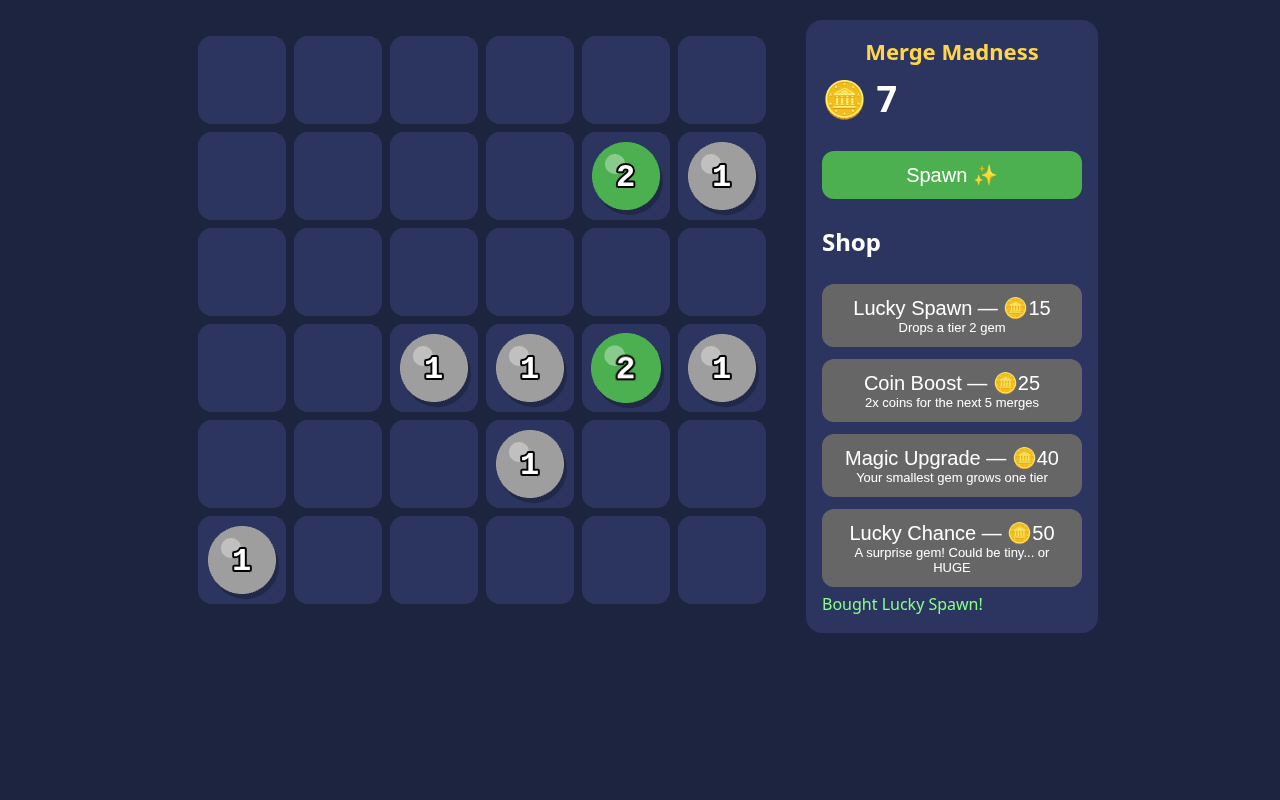
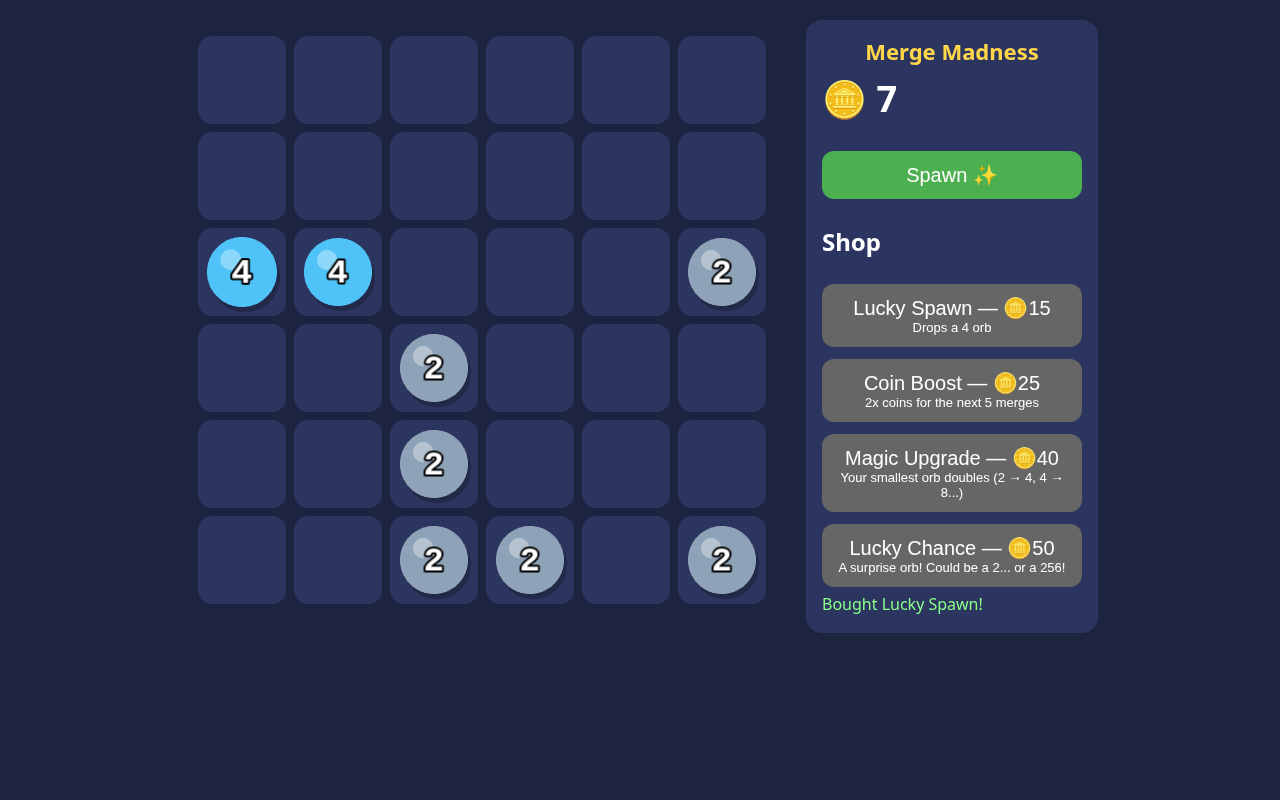
2048-style numbers, 14 tiers to 16384, new Lucky Chance weights, YOU WIN confetti

diff --git a/tests/core.test.ts b/tests/core.test.ts
@@ -18,7 +18,7 @@ describe('core rules', () => {
     const s = newGame(); s.cells[0] = 1;
     expect(moveItem(s, 0, 5).kind).toBe('move'); expect(s.cells[5]).toBe(1);
     s.cells[6] = 2; expect(moveItem(s, 5, 6).kind).toBe('swap'); expect(s.cells[5]).toBe(2); expect(s.cells[6]).toBe(1);
-    s.cells[7] = 8; s.cells[8] = 8; expect(moveItem(s, 7, 8).kind).toBe('swap');
+    s.cells[7] = 14; s.cells[8] = 14; expect(moveItem(s, 7, 8).kind).toBe('swap');
   });
   it('shop: costs coins, rejects when poor, coin boost doubles', () => {
     const s = newGame(); s.coins = SHOP.coinBoost.price;
@@ -34,36 +34,65 @@ describe('core rules', () => {
   });
 });
 
-import { weightedPick } from '../src/core/game';
-import { LUCKY_CHANCE_WEIGHTS } from '../src/config';
+import { weightedPick, checkWin } from '../src/core/game';
+import { LUCKY_CHANCE_WEIGHTS, MAX_TIER, WIN_TIER, tierValue, TIER_COLORS } from '../src/config';
+describe('2048 numbers', () => {
+  it('tier n shows 2^n up to 16384', () => {
+    expect(MAX_TIER).toBe(14); expect(WIN_TIER).toBe(14);
+    expect([1, 2, 3, 8, 13, 14].map(tierValue)).toEqual([2, 4, 8, 256, 8192, 16384]);
+  });
+  it('every tier has a unique color and growing coins', () => {
+    const cols = Object.values(TIER_COLORS); expect(cols.length).toBe(14); expect(new Set(cols).size).toBe(14);
+    for (let t = 2; t <= 14; t++) expect(TIER_COIN_VALUES[t]).toBeGreaterThan(TIER_COIN_VALUES[t - 1]);
+  });
+  it('8 + 8 merges into 16 (tier 8 -> 9 now allowed); 8192+8192 -> 16384', () => {
+    const s = newGame(); s.cells[0] = 8; s.cells[1] = 8; expect(moveItem(s, 0, 1).kind).toBe('merge'); expect(s.cells[1]).toBe(9);
+    s.cells[2] = 13; s.cells[3] = 13; expect(moveItem(s, 2, 3)).toMatchObject({ kind: 'merge', tier: 14 });
+  });
+  it('win triggers once per save, persists', () => {
+    const m = new Map<string, string>(); const st = { getItem: (k: string) => m.get(k) ?? null, setItem: (k: string, v: string) => void m.set(k, v) };
+    const s = newGame(); expect(checkWin(s)).toBe(false);
+    s.cells[0] = 13; s.cells[1] = 13; moveItem(s, 0, 1);
+    expect(checkWin(s)).toBe(true); expect(checkWin(s)).toBe(false);
+    save(s, st); const l = load(st); expect(l.won).toBe(true); expect(checkWin(l)).toBe(false);
+  });
+  it('win via Magic Upgrade too', () => {
+    const s = newGame(); s.coins = 100; s.cells[0] = 13; expect(buy(s, 'magicUpgrade').ok).toBe(true);
+    expect(s.cells[0]).toBe(14); expect(checkWin(s)).toBe(true);
+  });
+  it('old 8-tier save loads with same tiers, won=false', () => {
+    const c = Array(36).fill(null); c[0] = 8; c[1] = 3;
+    const st = { getItem: () => JSON.stringify({ cols: 6, rows: 6, cells: c, coins: 77, boostMerges: 2 }), setItem: () => {} };
+    const l = load(st); expect(l.cells[0]).toBe(8); expect(l.cells[1]).toBe(3); expect(l.coins).toBe(77); expect(l.boostMerges).toBe(2); expect(l.won).toBe(false);
+  });
+});
 describe('Lucky Chance', () => {
-  const W = { 1: 80, 2: 50, 3: 40, 4: 30, 5: 20, 6: 10, 7: 5, 8: 1 }; // total 236
-  const at = (x: number) => () => x / 236;
+  const W = { 1: 50, 2: 40, 3: 30, 4: 25, 5: 20, 6: 10, 7: 1, 8: 0.1 }; // total 176.1
+  const at = (x: number) => () => x / 176.1;
   it('config matches Miles numbers', () => { expect(LUCKY_CHANCE_WEIGHTS).toEqual(W); expect(SHOP.luckyChance.price).toBe(50); });
-  it('weighted pick respects boundaries', () => {
+  it('weighted pick respects boundaries (incl. decimal 0.1)', () => {
     expect(weightedPick(W, at(0))).toBe(1);
-    expect(weightedPick(W, at(79.999))).toBe(1);
-    expect(weightedPick(W, at(80))).toBe(2);
-    expect(weightedPick(W, at(129.999))).toBe(2);
-    expect(weightedPick(W, at(130))).toBe(3);
-    expect(weightedPick(W, at(170))).toBe(4);
-    expect(weightedPick(W, at(200))).toBe(5);
-    expect(weightedPick(W, at(220))).toBe(6);
-    expect(weightedPick(W, at(230))).toBe(7);
-    expect(weightedPick(W, at(234.999))).toBe(7);
-    expect(weightedPick(W, at(235))).toBe(8);
+    expect(weightedPick(W, at(49.999))).toBe(1);
+    expect(weightedPick(W, at(50))).toBe(2);
+    expect(weightedPick(W, at(90))).toBe(3);
+    expect(weightedPick(W, at(125))).toBe(4);
+    expect(weightedPick(W, at(145))).toBe(5);
+    expect(weightedPick(W, at(165))).toBe(6);
+    expect(weightedPick(W, at(175))).toBe(7);
+    expect(weightedPick(W, at(175.99))).toBe(7);
+    expect(weightedPick(W, at(176.01))).toBe(8);
     expect(weightedPick(W, () => 0.999999)).toBe(8);
   });
   it('frequencies roughly follow weights', () => {
     let seed = 1; const rng = () => ((seed = (seed * 16807) % 2147483647) / 2147483647);
-    const n = 236000, counts: Record<number, number> = {};
+    const n = 1761000, counts: Record<number, number> = {};
     for (let i = 0; i < n; i++) { const t = weightedPick(W, rng); counts[t] = (counts[t] ?? 0) + 1; }
-    for (const [t, w] of Object.entries(W)) expect(Math.abs(counts[+t] / 1000 - w)).toBeLessThan(Math.max(3, w * 0.1));
+    for (const [t, w] of Object.entries(W)) expect(Math.abs(counts[+t] / 10000 - w)).toBeLessThan(Math.max(0.05, w * 0.05));
   });
   it('zero weight never picked', () => { expect(weightedPick({ 1: 0, 2: 1 }, () => 0)).toBe(2); });
   it('buy deducts 50 and places the picked tier', () => {
     const s = newGame(); s.coins = 60;
-    const r = buy(s, 'luckyChance', at(170));
+    const r = buy(s, 'luckyChance', at(125));
     expect(r.ok).toBe(true); expect(r.tier).toBe(4); expect(s.coins).toBe(10);
     expect(s.cells[r.cell!]).toBe(4); expect(s.cells.filter(c => c !== null).length).toBe(1);
   });

diff --git a/src/config.ts b/src/config.ts
@@ -6,19 +6,27 @@
 export const BOARD_COLS = 6;
 export const BOARD_ROWS = 6;
 
-// How many tiers (levels) a gem can grow to. Tier 8 is the biggest!
-export const MAX_TIER = 8;
+// How many tiers (levels) an orb can grow to. Tier 14 is the biggest!
+// Each orb shows a 2048-style number: tier 1 = 2, tier 2 = 4, tier 3 = 8 ... tier 14 = 16,384.
+export const MAX_TIER = 14;
+
+// Make an orb of this tier and YOU WIN! (14 = the 16,384 orb). Confetti time!
+export const WIN_TIER = 14;
+
+// The number shown on an orb of this tier (2, 4, 8, 16 ...).
+export const tierValue = (tier: number) => 2 ** tier;
 
 // Coins you get when you MAKE a gem of this tier by merging.
-// Example: merge two tier-1 gems -> you make a tier 2 -> you get 2 coins.
+// Example: merge two 2 orbs -> you make a 4 orb (tier 2) -> you get 2 coins.
 export const TIER_COIN_VALUES: Record<number, number> = {
   1: 0, 2: 2, 3: 5, 4: 12, 5: 30, 6: 75, 7: 180, 8: 500,
+  9: 1200, 10: 3000, 11: 7500, 12: 18000, 13: 45000, 14: 100000,
 };
 
-// Colors for each tier (hex numbers like 0xRRGGBB).
+// Colors for each tier (hex numbers like 0xRRGGBB). Warm 2048-style rainbow!
 export const TIER_COLORS: Record<number, number> = {
-  1: 0x9e9e9e, 2: 0x4caf50, 3: 0x2196f3, 4: 0x9c27b0,
-  5: 0xff9800, 6: 0xf44336, 7: 0x00bcd4, 8: 0xffd700,
+  1: 0x8fa3b8, 2: 0x4fc3f7, 3: 0x26c6da, 4: 0x66bb6a, 5: 0x9ccc65, 6: 0xffca28, 7: 0xffa726,
+  8: 0xff7043, 9: 0xef5350, 10: 0xec407a, 11: 0xab47bc, 12: 0x7e57c2, 13: 0x5c6bc0, 14: 0xffd700,
 };
 
 // Coins you start the game with.
@@ -33,16 +41,19 @@ export const SPAWN_TIER2_CHANCE = 0;
 
 // ----- Shop prices and effects -----
 export const SHOP = {
-  luckySpawn: { name: 'Lucky Spawn', price: 15, description: 'Drops a tier 2 gem' },
+  luckySpawn: { name: 'Lucky Spawn', price: 15, description: 'Drops a 4 orb' },
   coinBoost: { name: 'Coin Boost', price: 25, description: '2x coins for the next 5 merges', merges: 5, multiplier: 2 },
-  magicUpgrade: { name: 'Magic Upgrade', price: 40, description: 'Your smallest gem grows one tier' },
-  luckyChance: { name: 'Lucky Chance', price: 50, description: 'A surprise gem! Could be tiny... or HUGE' },
+  magicUpgrade: { name: 'Magic Upgrade', price: 40, description: 'Your smallest orb doubles (2 → 4, 4 → 8...)' },
+  luckyChance: { name: 'Lucky Chance', price: 50, description: 'A surprise orb! Could be a 2... or a 256!' },
 };
 
 // ----- Lucky Chance odds (Miles designed these!) -----
 // Each tier gets a "weight". BIGGER number = MORE likely to come out.
-// They don't have to add up to 100. A tier with 80 is 80 times more likely than a tier with 1.
+// They don't have to add up to 100, and decimals are OK! 0.1 means super-duper rare.
+// A tier with 50 is 500 times more likely than a tier with 0.1.
 // Set a tier to 0 and it will never come out.
+//   tier 1 = 2,  tier 2 = 4,  tier 3 = 8,  tier 4 = 16,
+//   tier 5 = 32, tier 6 = 64, tier 7 = 128, tier 8 = 256
 export const LUCKY_CHANCE_WEIGHTS: Record<number, number> = {
-  1: 80, 2: 50, 3: 40, 4: 30, 5: 20, 6: 10, 7: 5, 8: 1,
+  1: 50, 2: 40, 3: 30, 4: 25, 5: 20, 6: 10, 7: 1, 8: 0.1,
 };

diff --git a/src/main.ts b/src/main.ts
@@ -1,14 +1,16 @@
 import Phaser from 'phaser';
 import { BoardScene } from './scenes/BoardScene';
 import { load, save } from './core/save';
-import { buy, spawn, ShopId } from './core/game';
-import { SHOP } from './config';
+import { buy, spawn, checkWin, ShopId } from './core/game';
+import { SHOP, tierValue } from './config';
+import { showWin } from './win';
 
 const state = load();
 const $ = (id: string) => document.getElementById(id)!;
 let scene: BoardScene;
 
 function refresh() {
+  if (checkWin(state)) showWin();
   save(state);
   $('coin-count').textContent = String(state.coins);
   $('boost').textContent = state.boostMerges > 0 ? `⚡ 2x coins: ${state.boostMerges} merges left` : '';
@@ -20,7 +22,7 @@ const msg = (t: string) => { $('msg').textContent = t; };
 (Object.keys(SHOP) as ShopId[]).forEach(id => {
   const b = document.createElement('button'); b.className = 'shop-item'; b.dataset.id = id; b.id = `shop-${id}`;
   b.innerHTML = `${SHOP[id].name} — 🪙${SHOP[id].price}<small>${SHOP[id].description}</small>`;
-  b.onclick = () => { const r = buy(state, id); msg(r.ok ? (r.tier ? `${SHOP[id].name} gave you a tier ${r.tier} orb! 🍀` : `Bought ${SHOP[id].name}!`) : friendly(r.reason!)); if (r.ok) scene.redraw(r.cell); refresh(); };
+  b.onclick = () => { const r = buy(state, id); msg(r.ok ? (r.tier ? `${SHOP[id].name} gave you a ${tierValue(r.tier)} orb! 🍀` : `Bought ${SHOP[id].name}!`) : friendly(r.reason!)); if (r.ok) scene.redraw(r.cell); refresh(); };
   $('shop').appendChild(b);
 });
 $('spawn-btn').onclick = () => { const i = spawn(state); if (i < 0) msg('Board is full!'); else scene.redraw(i); refresh(); };

diff --git a/src/win.ts b/src/win.ts
@@ -1,0 +1,27 @@
+// YOU WIN overlay + DOM canvas confetti (no outside libraries).
+export function showWin() {
+  const cv = document.createElement('canvas'); cv.id = 'confetti';
+  cv.width = innerWidth; cv.height = innerHeight; document.body.appendChild(cv);
+  const ctx = cv.getContext('2d')!;
+  const colors = ['#ff5252', '#ffd740', '#69f0ae', '#40c4ff', '#e040fb', '#ff9100', '#fff'];
+  const bits = Array.from({ length: 400 }, () => ({
+    x: cv.width / 2 + (Math.random() - 0.5) * 200, y: cv.height * 0.45,
+    vx: (Math.random() - 0.5) * 26, vy: -Math.random() * 24 - 6,
+    r: Math.random() * Math.PI, vr: (Math.random() - 0.5) * 0.4,
+    w: 8 + Math.random() * 8, h: 5 + Math.random() * 6, c: colors[(Math.random() * colors.length) | 0],
+  }));
+  const start = performance.now();
+  const tick = (now: number) => {
+    ctx.clearRect(0, 0, cv.width, cv.height);
+    for (const b of bits) {
+      b.vy += 0.45; b.vx *= 0.99; b.x += b.vx; b.y += b.vy; b.r += b.vr;
+      ctx.save(); ctx.translate(b.x, b.y); ctx.rotate(b.r); ctx.fillStyle = b.c; ctx.fillRect(-b.w / 2, -b.h / 2, b.w, b.h); ctx.restore();
+    }
+    if (now - start < 6000) requestAnimationFrame(tick); else cv.remove();
+  };
+  requestAnimationFrame(tick);
+  const o = document.createElement('div'); o.id = 'win-overlay';
+  o.innerHTML = '<div class="win-box"><div class="win-title">YOU WIN!</div><div class="win-sub">You made 16,384! 🎉</div><button id="keep-playing">Keep playing</button></div>';
+  document.body.appendChild(o);
+  o.querySelector('button')!.addEventListener('click', () => o.remove());
+}

diff --git a/src/core/game.ts b/src/core/game.ts
@@ -1,12 +1,12 @@
 import * as C from '../config';
 
 export type Cell = number | null; // tier, or empty
-export interface GameState { cols: number; rows: number; cells: Cell[]; coins: number; boostMerges: number; }
+export interface GameState { cols: number; rows: number; cells: Cell[]; coins: number; boostMerges: number; won: boolean; }
 export type ShopId = keyof typeof C.SHOP;
 export type MoveResult = { kind: 'merge'; tier: number; coins: number } | { kind: 'move' } | { kind: 'swap' } | { kind: 'none' };
 
 export function newGame(): GameState {
-  return { cols: C.BOARD_COLS, rows: C.BOARD_ROWS, cells: Array(C.BOARD_COLS * C.BOARD_ROWS).fill(null), coins: C.STARTING_COINS, boostMerges: 0 };
+  return { cols: C.BOARD_COLS, rows: C.BOARD_ROWS, cells: Array(C.BOARD_COLS * C.BOARD_ROWS).fill(null), coins: C.STARTING_COINS, boostMerges: 0, won: false };
 }
 export const idx = (s: GameState, x: number, y: number) => y * s.cols + x;
 export const emptyCells = (s: GameState) => s.cells.map((c, i) => (c === null ? i : -1)).filter(i => i >= 0);
@@ -72,4 +72,11 @@ export function buy(s: GameState, id: ShopId, rand = Math.random): { ok: boolean
   }
   s.coins -= item.price;
   return { ok: true, cell };
+}
+
+// True exactly once per save: the first time an orb of WIN_TIER (or bigger) is on the board.
+export function checkWin(s: GameState): boolean {
+  if (s.won || !s.cells.some(c => c !== null && c >= C.WIN_TIER)) return false;
+  s.won = true;
+  return true;
 }

diff --git a/src/scenes/BoardScene.ts b/src/scenes/BoardScene.ts
@@ -1,6 +1,6 @@
 import Phaser from 'phaser';
 import { GameState, moveItem } from '../core/game';
-import { TIER_COLORS } from '../config';
+import { TIER_COLORS, tierValue } from '../config';
 
 const CELL = 96, PAD = 12;
 export class BoardScene extends Phaser.Scene {
@@ -35,7 +35,8 @@ export class BoardScene extends Phaser.Scene {
       gfx.fillStyle(0x000000, 0.25).fillCircle(3, 5, 34);
       gfx.fillStyle(TIER_COLORS[t]).fillCircle(0, 0, 34);
       gfx.fillStyle(0xffffff, 0.35).fillCircle(-11, -12, 10);
-      const txt = this.add.text(0, 0, String(t), { fontSize: '32px', fontStyle: 'bold', color: '#fff', stroke: '#000', strokeThickness: 4 }).setOrigin(0.5);
+      const label = String(tierValue(t)); const fs = [0, 34, 34, 28, 22, 18][label.length] ?? 16;
+      const txt = this.add.text(0, 0, label, { fontSize: `${fs}px`, fontStyle: 'bold', color: '#fff', stroke: '#000', strokeThickness: 4 }).setOrigin(0.5);
       c.add([gfx, txt]); c.setSize(76, 76).setData('i', i);
       c.setInteractive({ draggable: true, useHandCursor: true });
       this.items.set(i, c);

diff --git a/src/core/save.ts b/src/core/save.ts
@@ -1,3 +1,4 @@
+import { MAX_TIER } from '../config';
 import { GameState, newGame } from './game';
 const KEY = 'miles-merge-v0';
 export interface Store { getItem(k: string): string | null; setItem(k: string, v: string): void; }
@@ -9,6 +10,14 @@ export function load(st: Store = localStorage): GameState {
     const d = JSON.parse(raw) as GameState;
     const base = newGame();
     if (!Array.isArray(d.cells) || d.cells.length !== base.cells.length) return base;
-    return { ...base, ...d };
+    // Old 8-tier saves: same tier numbers, just add missing fields; drop junk values.
+    const cells = d.cells.map(c => (typeof c === 'number' && Number.isInteger(c) && c >= 1 && c <= MAX_TIER ? c : null));
+    return {
+      ...base,
+      coins: typeof d.coins === 'number' && isFinite(d.coins) ? d.coins : base.coins,
+      boostMerges: typeof d.boostMerges === 'number' ? d.boostMerges : 0,
+      won: d.won === true,
+      cells,
+    };
   } catch { return newGame(); }
 }

diff --git a/src/style.css b/src/style.css
@@ -6,3 +6,8 @@ button{font-size:20px;border:0;border-radius:12px;padding:12px;width:100%;margin
 .shop-item{background:#ff9800}.shop-item:disabled{background:#666;cursor:not-allowed}
 .shop-item small{display:block;font-size:13px}#msg{min-height:24px;color:#8f8}
 #title{margin:0 0 8px;font-size:22px;color:#ffd54a;text-align:center}
+#confetti{position:fixed;inset:0;pointer-events:none;z-index:20}
+#win-overlay{position:fixed;inset:0;display:flex;align-items:center;justify-content:center;background:rgba(0,0,0,.45);z-index:10}
+.win-box{background:#2c3560;border:6px solid #ffd700;border-radius:24px;padding:32px 48px;text-align:center}
+.win-title{font-size:96px;font-weight:900;color:#ffd700;text-shadow:0 6px 0 #b8860b,0 0 30px #fff3}
+.win-sub{font-size:28px;margin:8px 0 16px}#keep-playing{font-size:26px;width:auto;padding:14px 32px}
